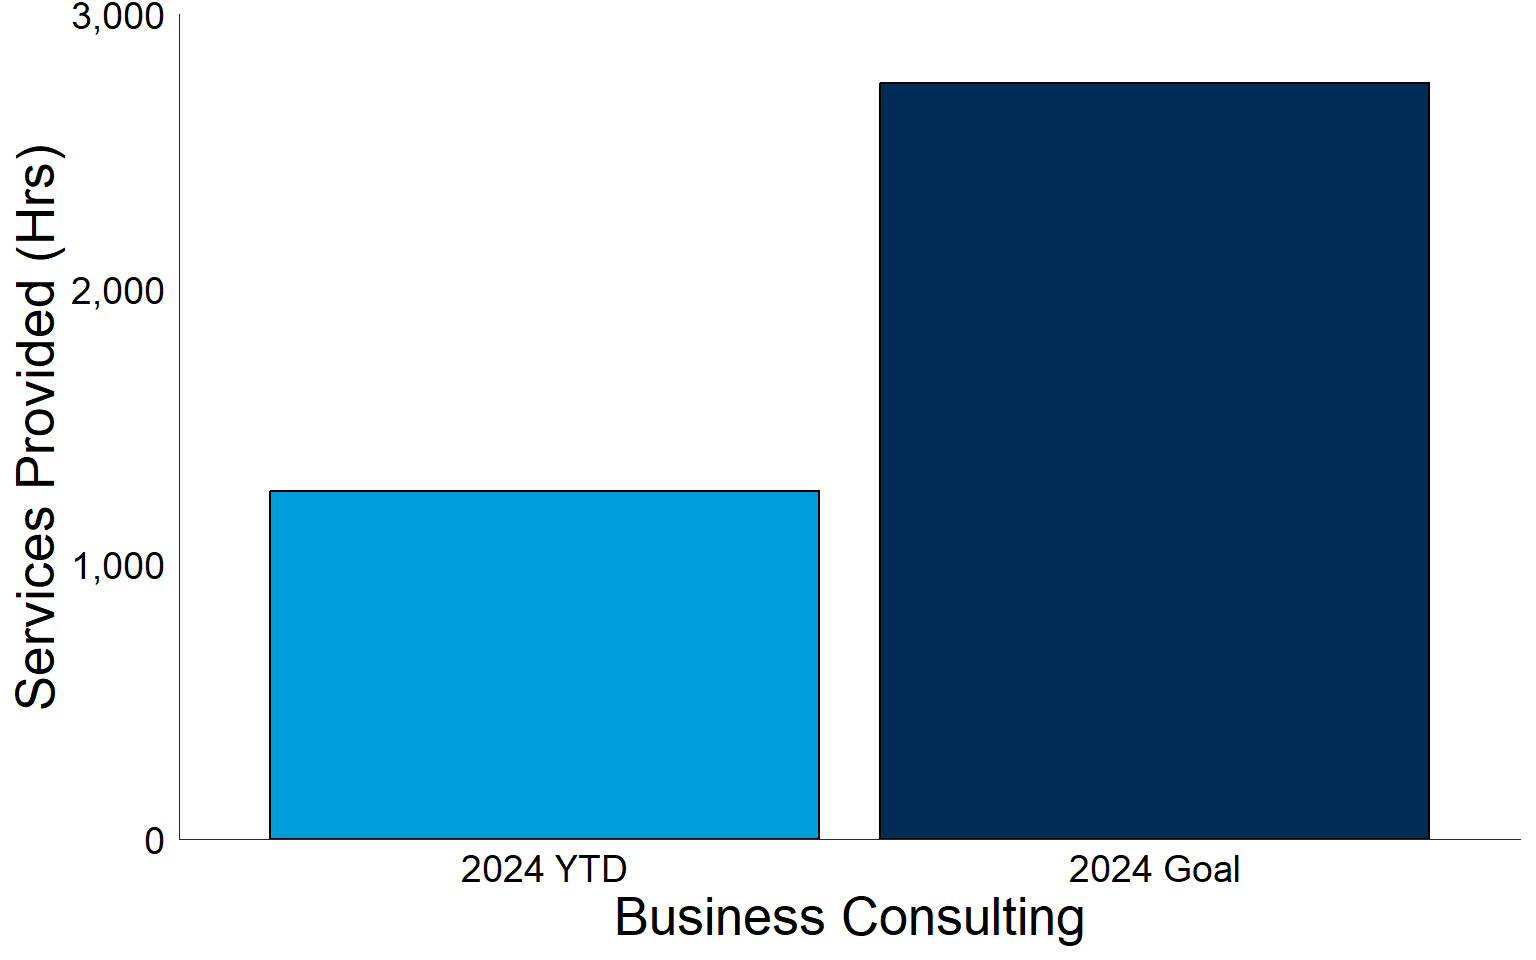
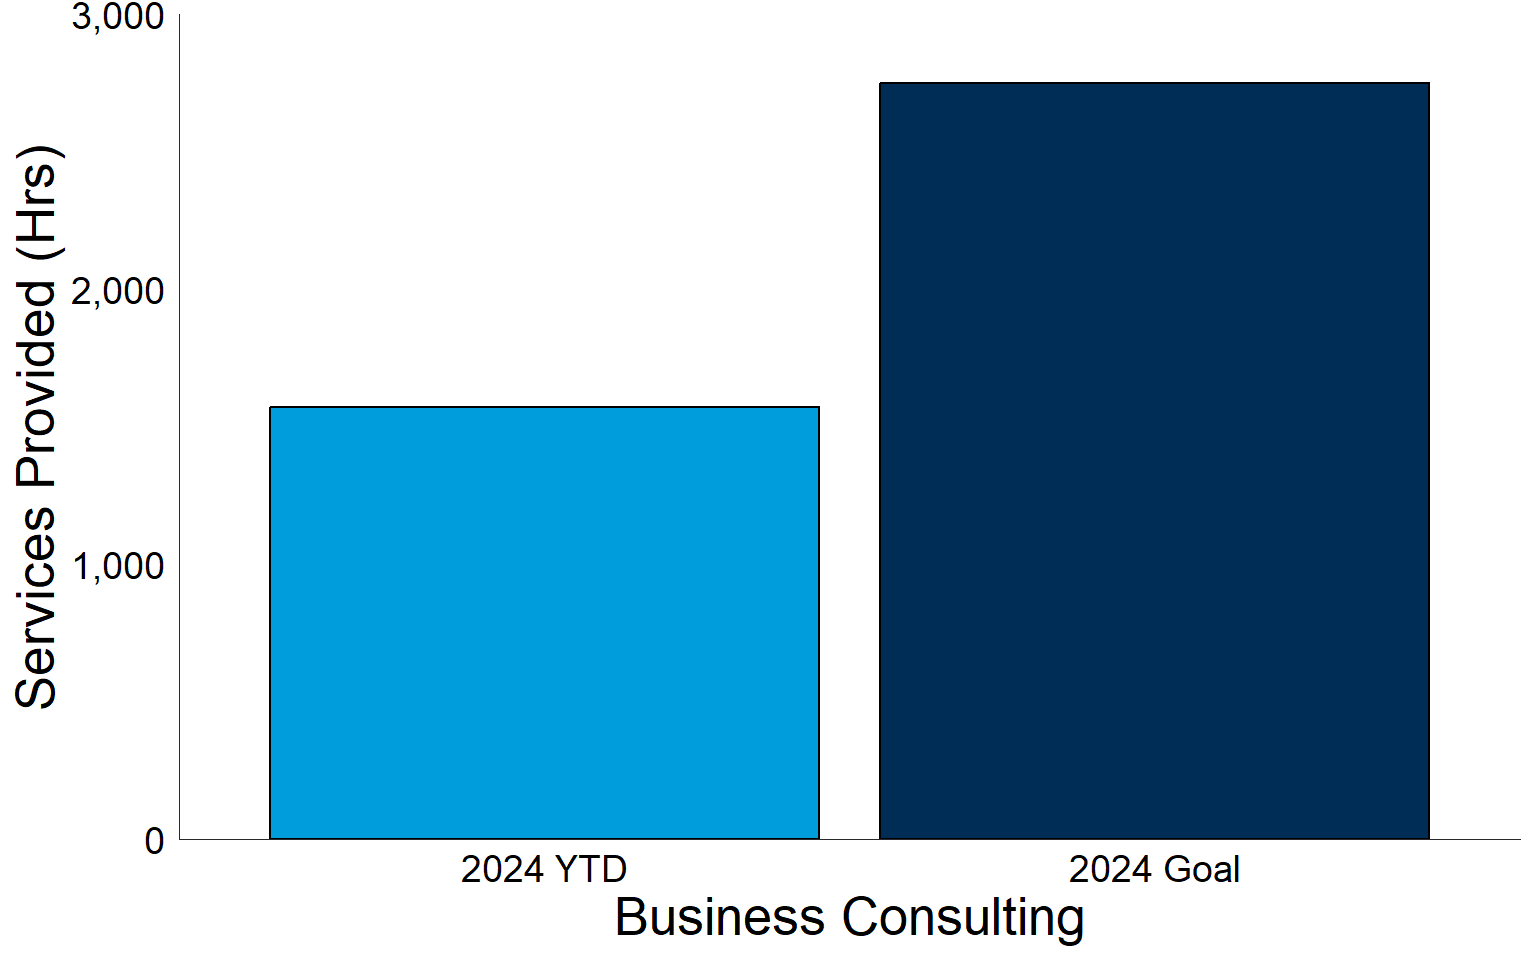
Built site for gh-pages

Changed region(s): [[0.1562, 0.4062, 0.5312, 0.5312]]

diff --git a/index.html b/index.html
@@ -84,7 +84,7 @@ grid-auto-rows: minmax(0, 1fr);">
 Direct Investment
 </p>
 <p class="value-box-value">
-$4.1 Million
+$5.7 Million
 </p>
 </div>
 </div>
@@ -100,7 +100,7 @@ $4.1 Million
 Small Businesses Funded (Grants and Loans)
 </p>
 <p class="value-box-value">
-52
+68
 </p>
 </div>
 </div>
@@ -116,7 +116,7 @@ Small Businesses Funded (Grants and Loans)
 Small Businesses Receiving Business Consulting Services
 </p>
 <p class="value-box-value">
-767
+883
 </p>
 </div>
 </div>
@@ -132,7 +132,7 @@ Small Businesses Receiving Business Consulting Services
 Small Business Funded in Disinvested Neighborhoods
 </p>
 <p class="value-box-value">
-32.7%
+32.4%
 </p>
 </div>
 </div>
@@ -196,7 +196,7 @@ grid-auto-rows: minmax(0, 1fr);">
 Invest Atlanta Funding
 </p>
 <p class="value-box-value">
-$45.1 Million
+$39 Million
 </p>
 </div>
 </div>
@@ -212,7 +212,7 @@ $45.1 Million
 TAD Grants
 </p>
 <p class="value-box-value">
-$6 Million
+$8 Million
 </p>
 </div>
 </div>
@@ -225,7 +225,7 @@ $6 Million
 <i class="bi bi-globe-americas"></i></div>
 <div class="value-box-area">
 <p class="value-box-title">
-C-PACE Clean Energy Investment
+C-PACE Clean Energy Total Investment
 </p>
 <p class="value-box-value">
 $13.1 Million
@@ -307,10 +307,10 @@ grid-auto-rows: minmax(0, 1fr);">
 <i class="bi bi-piggy-bank"></i></div>
 <div class="value-box-area">
 <p class="value-box-title">
-Total Capital Invested in Housing Developments
+Total Capital Invested (Housing)
 </p>
 <p class="value-box-value">
-$156 Million
+$212 Million
 </p>
 </div>
 </div>
@@ -326,7 +326,7 @@ $156 Million
 Total Affordable Housing Units Financed
 </p>
 <p class="value-box-value">
-450
+713
 </p>
 </div>
 </div>
@@ -358,7 +358,7 @@ Low Income Units Financed
 Homeownership Incentives (Down Payment, Home Rehab)
 </p>
 <p class="value-box-value">
-111
+132
 </p>
 </div>
 </div>
@@ -419,10 +419,10 @@ grid-auto-rows: minmax(0, 1fr);">
 <i class="bi bi-door-open"></i></div>
 <div class="value-box-area">
 <p class="value-box-title">
-Closed Business Development Projects
+Total Capital Investment (Jobs &amp; Employment)
 </p>
 <p class="value-box-value">
-21
+$83M
 </p>
 </div>
 </div>
@@ -438,7 +438,7 @@ Closed Business Development Projects
 Total Jobs Impact
 </p>
 <p class="value-box-value">
-2,484
+3,199
 </p>
 </div>
 </div>
@@ -454,23 +454,23 @@ Total Jobs Impact
 New Good Jobs Created
 </p>
 <p class="value-box-value">
-1,435
+1,442
 </p>
 </div>
 </div>
 </div>
 <script data-bslib-card-init="">bslib.Card.initializeAllCards();</script></div><div class="card valuebox cell html-fill-item html-fill-container bslib-card bslib-value-box bg-success showcase-left-center" data-bslib-card-init="" data-require-bs-caller="card()">
 <div class="card-body html-fill-item html-fill-container">
-<div data-icon="file-person" class="html-fill-item html-fill-container value-box-grid">
+<div data-icon="bag-dash-fill" class="html-fill-item html-fill-container value-box-grid">
 <div class="value-box-showcase html-fill-item html-fill-container">
 
-<i class="bi bi-file-person"></i></div>
+<i class="bi bi-bag-dash-fill"></i></div>
 <div class="value-box-area">
 <p class="value-box-title">
-Business Consultations
+Business Development Projects Closed
 </p>
 <p class="value-box-value">
-774
+28
 </p>
 </div>
 </div>
@@ -479,19 +479,7 @@ Business Consultations
 </div>
 <div class="html-fill-item html-fill-container bslib-grid" style="display: grid; grid-template-columns: minmax(3em, 1fr) minmax(3em, 1fr) minmax(3em, 1fr);
 grid-auto-rows: minmax(0, 1fr);">
-<div class="card cell html-fill-item html-fill-container bslib-card" data-title="Business Development Projects" data-bslib-card-init="" data-require-bs-caller="card()" data-full-screen="false">
-<div class="card-header"><div class="card-title">Business Development Projects</div></div>
-<div class="card-body html-fill-item html-fill-container">
-<div class="cell-output-display html-fill-item html-fill-container">
-<img src="index_files/figure-html/unnamed-chunk-27-1.png" class="img-fluid quarto-dashboard-img-contain">
-</div>
-</div>
-<bslib-tooltip placement="auto" bsoptions="[]" data-require-bs-version="5" data-require-bs-caller="tooltip()">
-    <template>Expand</template>
-    <span class="bslib-full-screen-enter badge rounded-pill">
-        <svg xmlns="http://www.w3.org/2000/svg" viewbox="0 0 24 24" style="height:1em;width:1em;" aria-hidden="true" role="img"><path d="M20 5C20 4.4 19.6 4 19 4H13C12.4 4 12 3.6 12 3C12 2.4 12.4 2 13 2H21C21.6 2 22 2.4 22 3V11C22 11.6 21.6 12 21 12C20.4 12 20 11.6 20 11V5ZM4 19C4 19.6 4.4 20 5 20H11C11.6 20 12 20.4 12 21C12 21.6 11.6 22 11 22H3C2.4 22 2 21.6 2 21V13C2 12.4 2.4 12 3 12C3.6 12 4 12.4 4 13V19Z"></path></svg>
-    </span>
-</bslib-tooltip><script data-bslib-card-init="">bslib.Card.initializeAllCards();</script></div><div class="card cell html-fill-item html-fill-container bslib-card" data-title="Job Creation &amp; Retention" data-bslib-card-init="" data-require-bs-caller="card()" data-full-screen="false">
+<div class="card cell html-fill-item html-fill-container bslib-card" data-title="Job Creation &amp; Retention" data-bslib-card-init="" data-require-bs-caller="card()" data-full-screen="false">
 <div class="card-header"><div class="card-title">Job Creation &amp; Retention</div></div>
 <div class="card-body html-fill-item html-fill-container">
 <div class="cell-output-display html-fill-item html-fill-container">
@@ -515,6 +503,18 @@ grid-auto-rows: minmax(0, 1fr);">
     <span class="bslib-full-screen-enter badge rounded-pill">
         <svg xmlns="http://www.w3.org/2000/svg" viewbox="0 0 24 24" style="height:1em;width:1em;" aria-hidden="true" role="img"><path d="M20 5C20 4.4 19.6 4 19 4H13C12.4 4 12 3.6 12 3C12 2.4 12.4 2 13 2H21C21.6 2 22 2.4 22 3V11C22 11.6 21.6 12 21 12C20.4 12 20 11.6 20 11V5ZM4 19C4 19.6 4.4 20 5 20H11C11.6 20 12 20.4 12 21C12 21.6 11.6 22 11 22H3C2.4 22 2 21.6 2 21V13C2 12.4 2.4 12 3 12C3.6 12 4 12.4 4 13V19Z"></path></svg>
     </span>
+</bslib-tooltip><script data-bslib-card-init="">bslib.Card.initializeAllCards();</script></div><div class="card cell html-fill-item html-fill-container bslib-card" data-title="Closed Business Development Projects by Priority Industry" data-bslib-card-init="" data-require-bs-caller="card()" data-full-screen="false">
+<div class="card-header"><div class="card-title">Closed Business Development Projects by Priority Industry</div></div>
+<div class="card-body html-fill-item html-fill-container">
+<div class="cell-output-display html-fill-item html-fill-container">
+<img src="index_files/figure-html/unnamed-chunk-30-1.png" class="img-fluid quarto-dashboard-img-contain">
+</div>
+</div>
+<bslib-tooltip placement="auto" bsoptions="[]" data-require-bs-version="5" data-require-bs-caller="tooltip()">
+    <template>Expand</template>
+    <span class="bslib-full-screen-enter badge rounded-pill">
+        <svg xmlns="http://www.w3.org/2000/svg" viewbox="0 0 24 24" style="height:1em;width:1em;" aria-hidden="true" role="img"><path d="M20 5C20 4.4 19.6 4 19 4H13C12.4 4 12 3.6 12 3C12 2.4 12.4 2 13 2H21C21.6 2 22 2.4 22 3V11C22 11.6 21.6 12 21 12C20.4 12 20 11.6 20 11V5ZM4 19C4 19.6 4.4 20 5 20H11C11.6 20 12 20.4 12 21C12 21.6 11.6 22 11 22H3C2.4 22 2 21.6 2 21V13C2 12.4 2.4 12 3 12C3.6 12 4 12.4 4 13V19Z"></path></svg>
+    </span>
 </bslib-tooltip><script data-bslib-card-init="">bslib.Card.initializeAllCards();</script></div>
 </div>
 </div>
@@ -531,10 +531,10 @@ grid-auto-rows: minmax(0, 1fr);">
 <i class="bi bi-piggy-bank"></i></div>
 <div class="value-box-area">
 <p class="value-box-title">
-Total Capital Investment
+Total Capital Investment Across All Programs
 </p>
 <p class="value-box-value">
-$327 Million
+$458 Million
 </p>
 </div>
 </div>
@@ -550,7 +550,7 @@ $327 Million
 Total Economic Impact
 </p>
 <p class="value-box-value">
-$833 Million
+$1.17 Billion
 </p>
 </div>
 </div>
@@ -566,7 +566,7 @@ $833 Million
 Total Capital Invested in Disinvested Neighborhoods
 </p>
 <p class="value-box-value">
-62%
+57%
 </p>
 </div>
 </div>
@@ -579,32 +579,20 @@ Total Capital Invested in Disinvested Neighborhoods
 <i class="bi bi-file-person"></i></div>
 <div class="value-box-area">
 <p class="value-box-title">
-People Engaged via Community Events
+Average Client Satisfaction Score (scale 1-5)
 </p>
 <p class="value-box-value">
-4,775
+4.65
 </p>
 </div>
 </div>
 </div>
 <script data-bslib-card-init="">bslib.Card.initializeAllCards();</script></div>
 </div>
-<div class="html-fill-item html-fill-container bslib-grid" style="display: grid; grid-template-columns: minmax(3em, 1fr) minmax(3em, 1fr) minmax(3em, 1fr);
+<div class="html-fill-item html-fill-container bslib-grid" style="display: grid; grid-template-columns: minmax(3em, 1fr) minmax(3em, 1fr);
 grid-auto-rows: minmax(0, 1fr);">
 <div class="card cell html-fill-item html-fill-container bslib-card" data-title="Total Capital Investment" data-bslib-card-init="" data-require-bs-caller="card()" data-full-screen="false">
 <div class="card-header"><div class="card-title">Total Capital Investment</div></div>
-<div class="card-body html-fill-item html-fill-container">
-<div class="cell-output-display html-fill-item html-fill-container">
-<img src="index_files/figure-html/unnamed-chunk-34-1.png" class="img-fluid quarto-dashboard-img-contain">
-</div>
-</div>
-<bslib-tooltip placement="auto" bsoptions="[]" data-require-bs-version="5" data-require-bs-caller="tooltip()">
-    <template>Expand</template>
-    <span class="bslib-full-screen-enter badge rounded-pill">
-        <svg xmlns="http://www.w3.org/2000/svg" viewbox="0 0 24 24" style="height:1em;width:1em;" aria-hidden="true" role="img"><path d="M20 5C20 4.4 19.6 4 19 4H13C12.4 4 12 3.6 12 3C12 2.4 12.4 2 13 2H21C21.6 2 22 2.4 22 3V11C22 11.6 21.6 12 21 12C20.4 12 20 11.6 20 11V5ZM4 19C4 19.6 4.4 20 5 20H11C11.6 20 12 20.4 12 21C12 21.6 11.6 22 11 22H3C2.4 22 2 21.6 2 21V13C2 12.4 2.4 12 3 12C3.6 12 4 12.4 4 13V19Z"></path></svg>
-    </span>
-</bslib-tooltip><script data-bslib-card-init="">bslib.Card.initializeAllCards();</script></div><div class="card cell html-fill-item html-fill-container bslib-card" data-title="Community Engagement" data-bslib-card-init="" data-require-bs-caller="card()" data-full-screen="false">
-<div class="card-header"><div class="card-title">Community Engagement</div></div>
 <div class="card-body html-fill-item html-fill-container">
 <div class="cell-output-display html-fill-item html-fill-container">
 <img src="index_files/figure-html/unnamed-chunk-35-1.png" class="img-fluid quarto-dashboard-img-contain">
@@ -619,8 +607,8 @@ grid-auto-rows: minmax(0, 1fr);">
 <div class="card-body html-fill-item html-fill-container">
 <div class="quarto-figure quarto-figure-center html-fill-item html-fill-container">
 <figure class="figure">
-<p><img src="wins_map_20240711.png" class="img-fluid figure-img" style="width:85.0%"></p>
-<figcaption>Click to expand</figcaption>
+<p><a href="https://iatl.maps.arcgis.com/apps/instant/basic/index.html?appid=112649da7b1d4fa58098c16cc402dcc4" target="_blank"><img src="wins_map_20240808_v2.png" title="Click to view" class="img-fluid figure-img" alt="Click the image to explore our interactive online investment map."></a></p>
+<figcaption><b>Click the image to explore our interactive online investment map.</b></figcaption>
 </figure>
 </div>
 </div>
